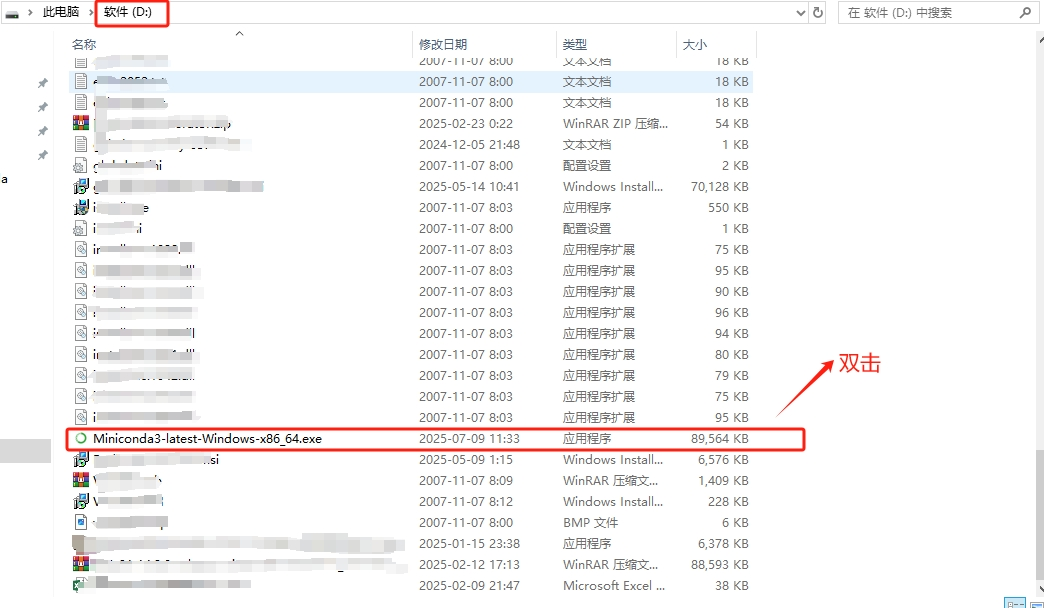
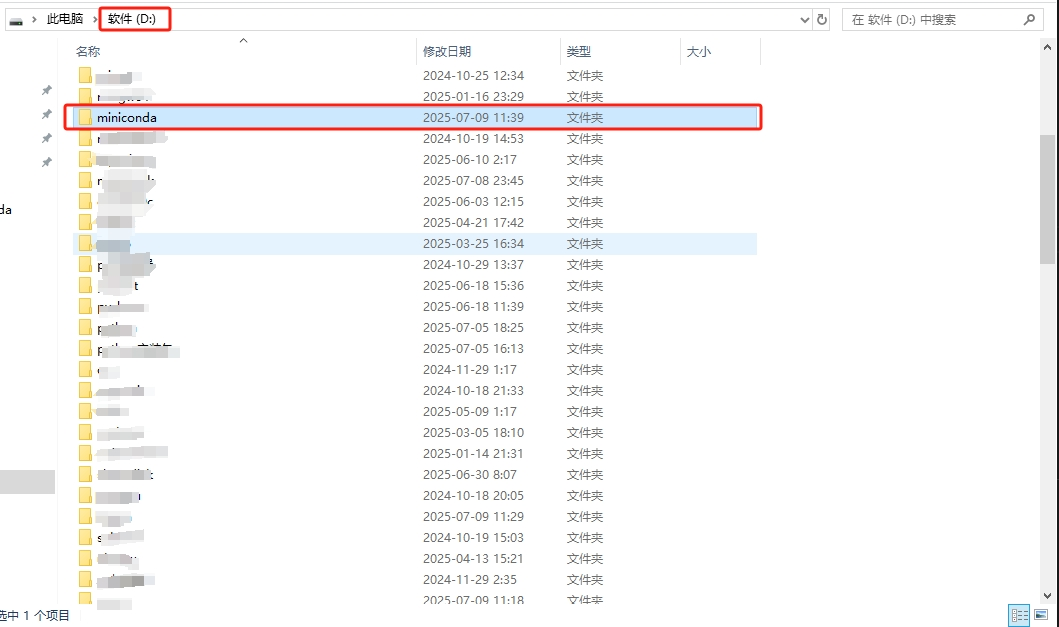
miniconda的安装

diff --git a/day02/homework.md b/day02/homework.md
@@ -14,5 +14,9 @@ wget "https://repo.anaconda.com/miniconda/Miniconda3-latest-Windows-x86_64.exe" 
 ```
 
 #### 2. 安装Miniconda
+> 创建安装目录D:\miniconda
 > ![3.png](https://github.com/solodba/LLMOps/blob/main/day02/images/3.png)  
+>   
+> ![4.png](https://github.com/solodba/LLMOps/blob/main/day02/images/4.png)  
 >  
+
